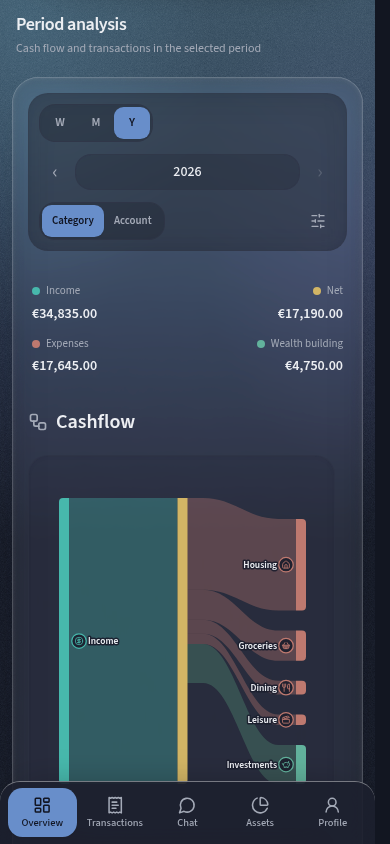
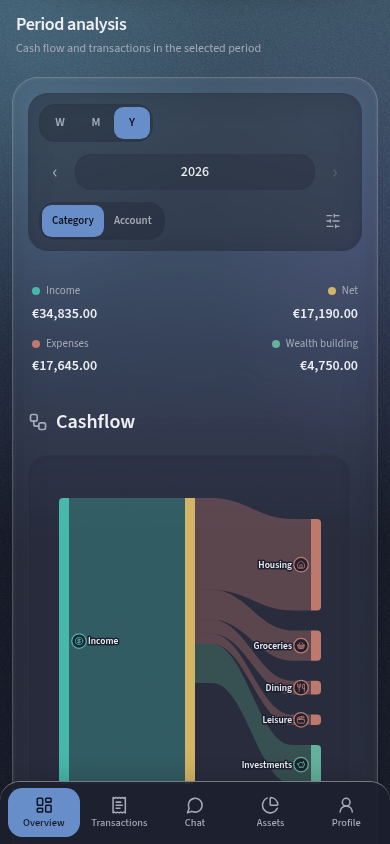
fix: remove reserved screenshot gutter

diff --git a/frontend/screenshots/screenshots.spec.ts b/frontend/screenshots/screenshots.spec.ts
@@ -15,6 +15,10 @@ async function prepare(page: Page, route: string, viewport: { width: number; hei
   await page.waitForLoadState("networkidle");
   await page.addStyleTag({
     content: `
+      html {
+        scrollbar-gutter: auto !important;
+      }
+
       *, *::before, *::after {
         animation-duration: 0s !important;
         animation-delay: 0s !important;

diff --git a/frontend/playwright.screenshots.config.ts b/frontend/playwright.screenshots.config.ts
@@ -15,9 +15,6 @@ export default defineConfig({
     reducedMotion: "reduce",
     serviceWorkers: "block",
     channel: "chromium",
-    launchOptions: {
-      args: ["--hide-scrollbars"],
-    },
   },
   webServer: {
     command: "npm run build && npm run preview -- --host 127.0.0.1 --port 4173",
